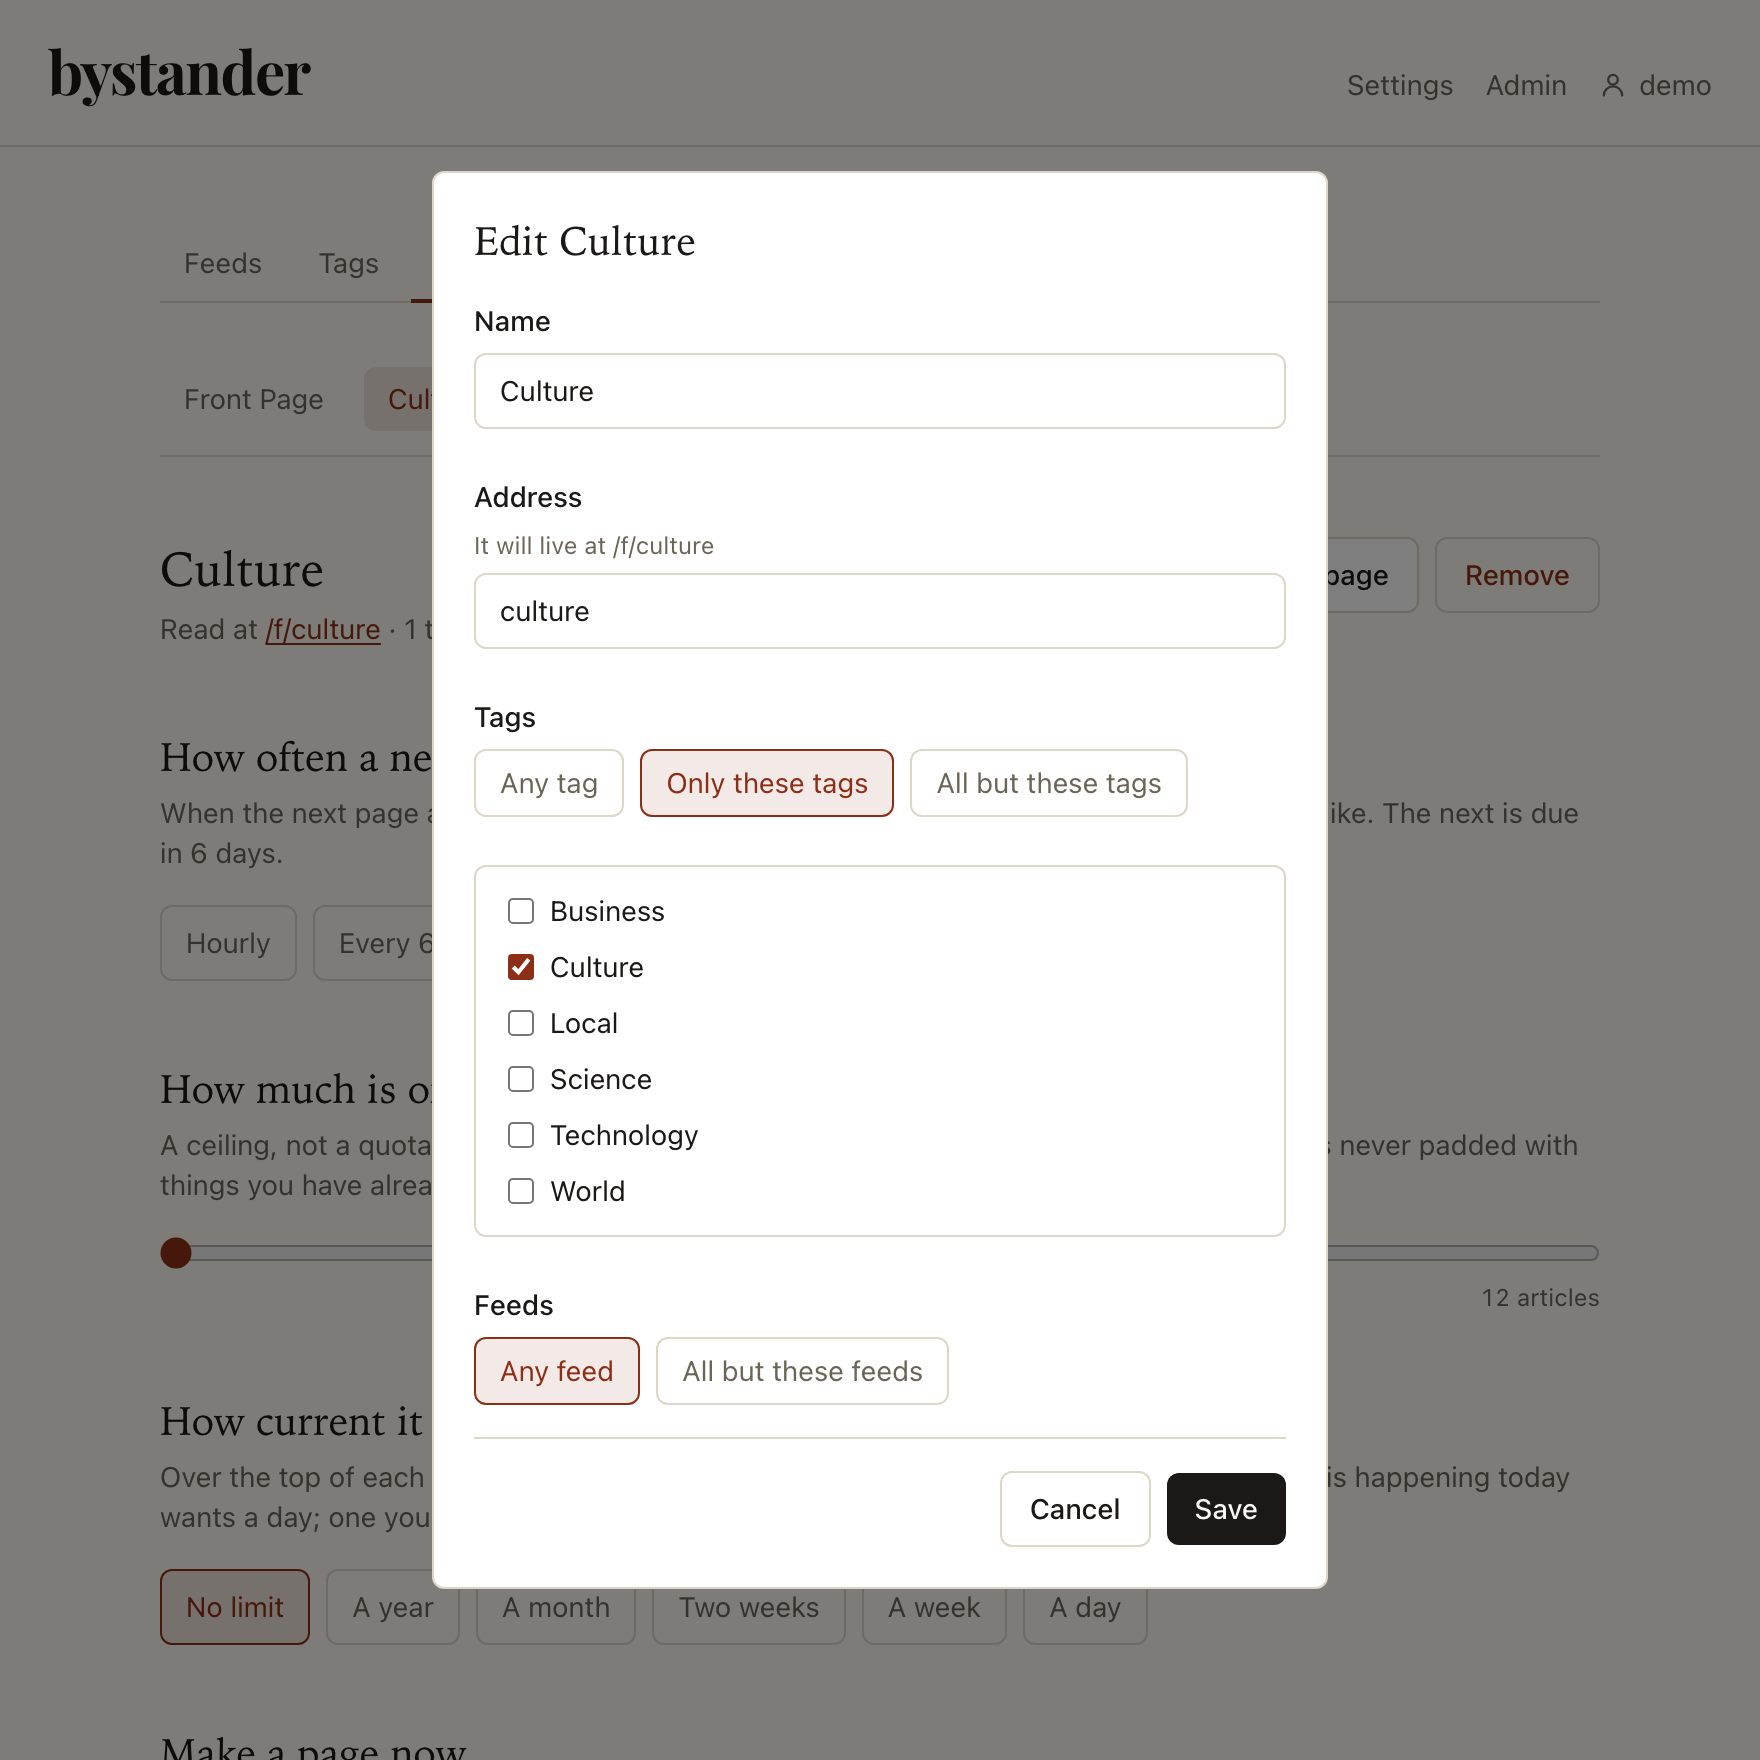
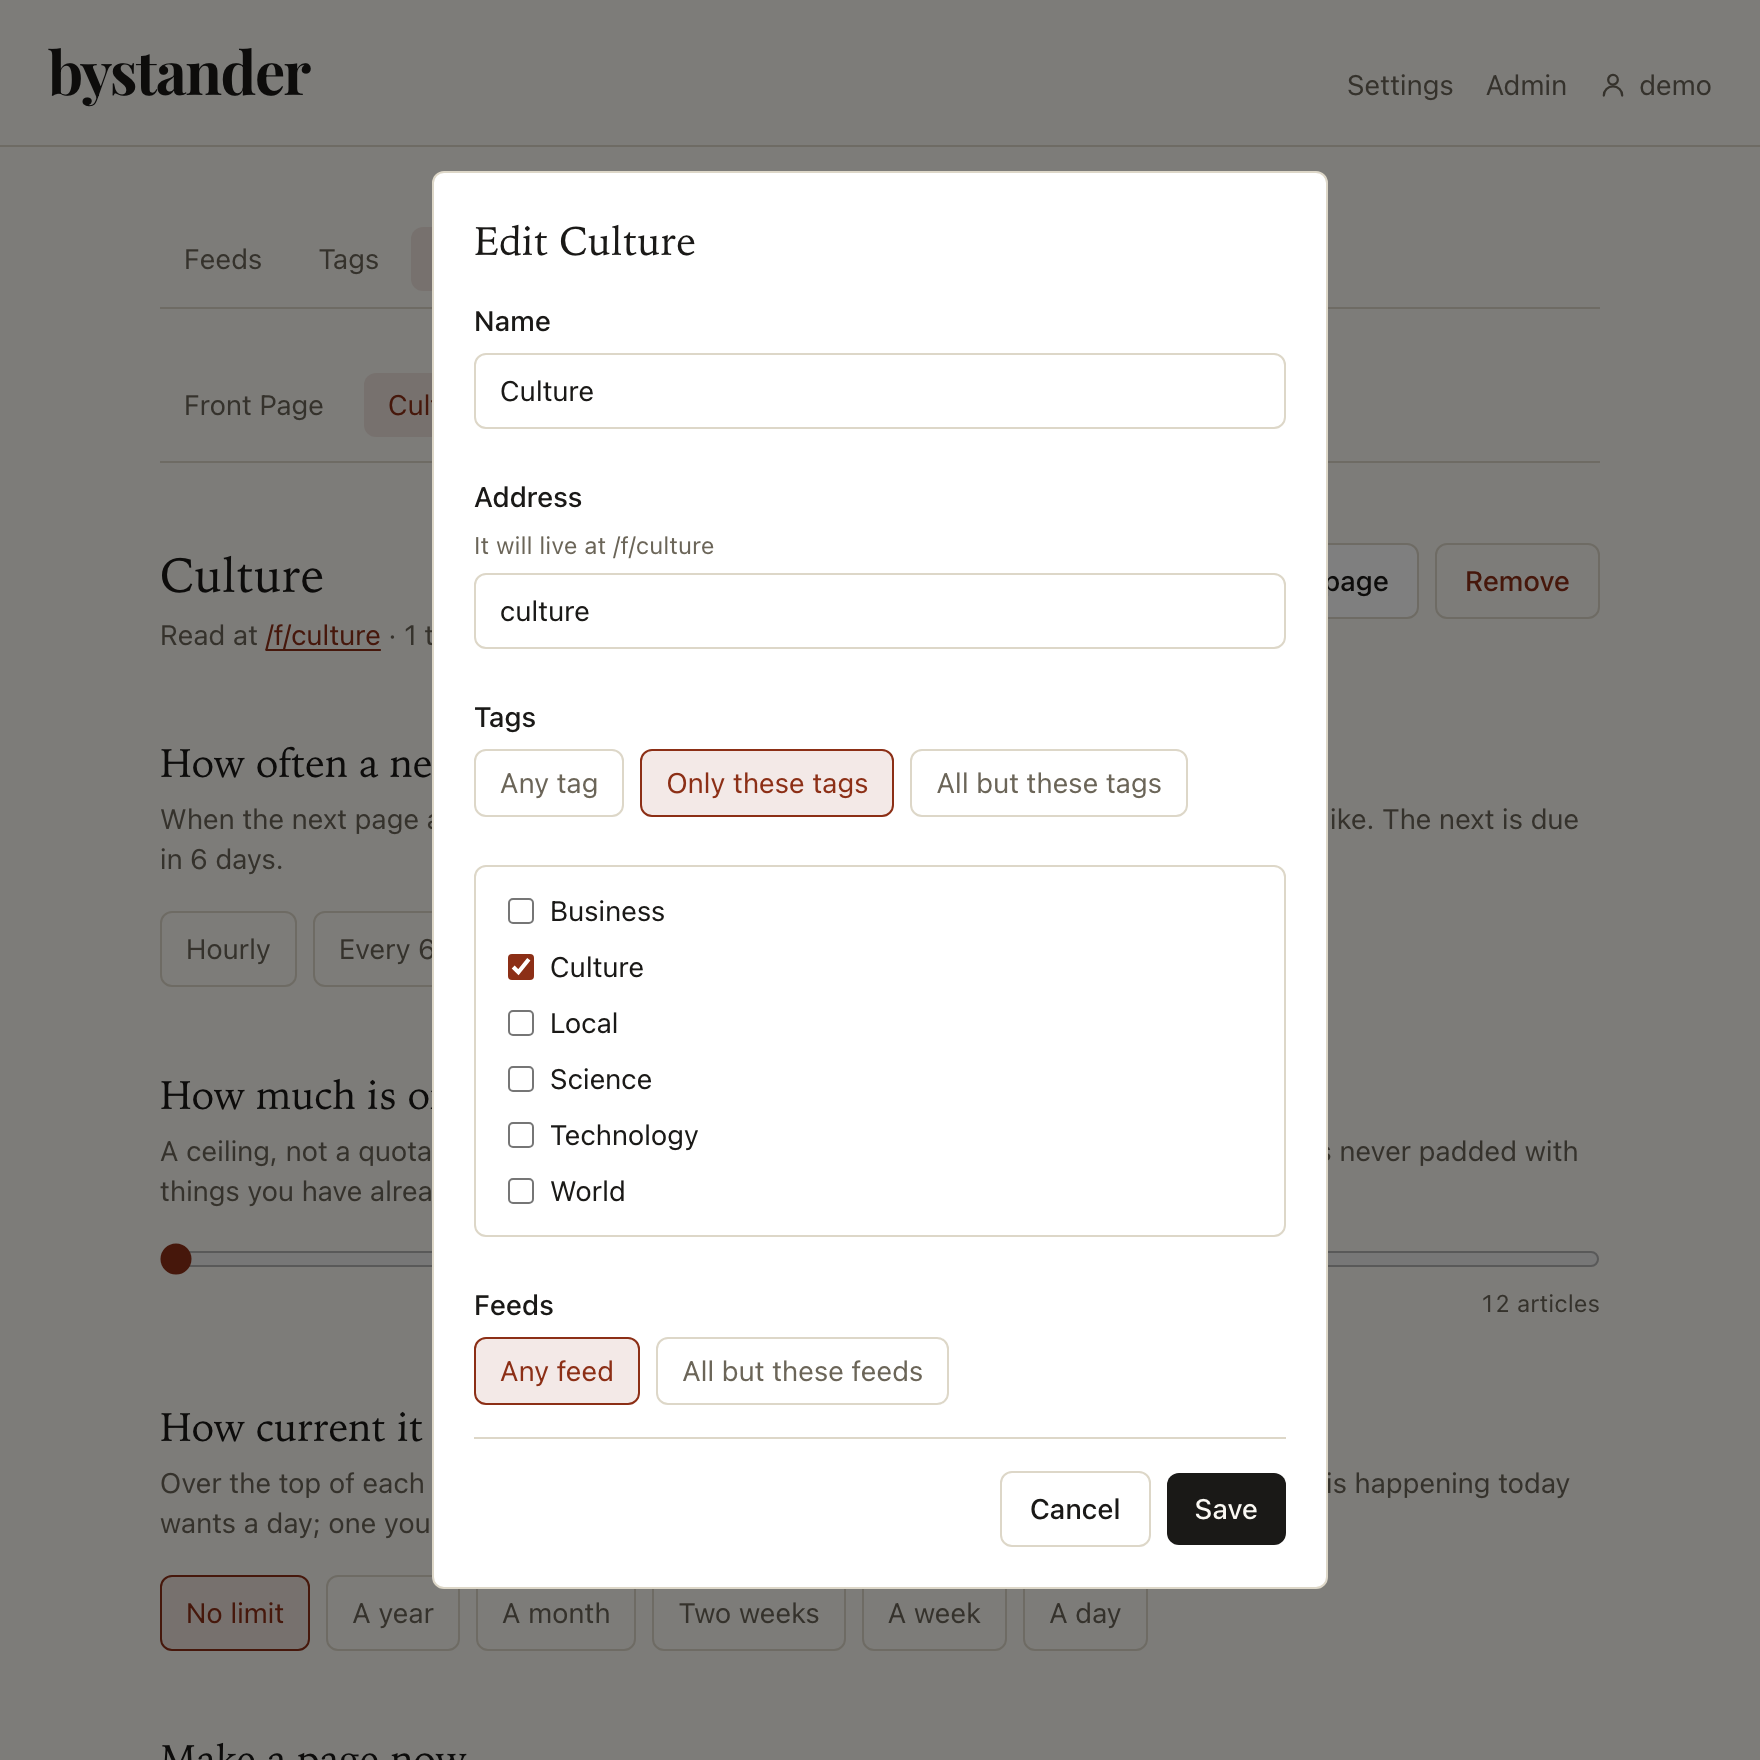
Scroll the section tabs, as pills, instead of wrapping them

diff --git a/web/src/components/ui/TabStrip.tsx b/web/src/components/ui/TabStrip.tsx
@@ -1,0 +1,90 @@
+import { useEffect, useRef, useState } from "react";
+import { NavLink, useLocation } from "react-router";
+
+export interface Tab {
+  to: string;
+  label: string;
+  /** Whether the path has to match exactly — for the tab that owns the section's root. */
+  end?: boolean;
+}
+
+/**
+ * The row of tabs under the masthead, in the islands that have sections.
+ *
+ * It scrolls sideways rather than wrapping. Wrapping was tried and is the safer-sounding of
+ * the two — nothing can be out of sight — but five tabs on a phone became two rows, and a
+ * two-row strip reads as two groups of things rather than one row of them.
+ *
+ * Scrolling has one real cost, and it is worth naming because it is the reason wrapping was
+ * tried first: a tab off the end of the strip is a tab somebody may not know is there, and on
+ * this nav that tab is Account, which is the way to sign out. Two things pay for it, and both
+ * are below: the strip fades at the edge when there is more of it, so it looks cut off rather
+ * than finished, and the tab you are on is scrolled into view, so the strip never opens
+ * showing you somewhere you are not.
+ */
+export function TabStrip({ tabs }: { tabs: Tab[] }) {
+  const strip = useRef<HTMLElement>(null);
+  const [overflowing, setOverflowing] = useState(false);
+  const { pathname } = useLocation();
+
+  useEffect(() => {
+    const node = strip.current;
+    if (!node) return;
+
+    const measure = () =>
+      setOverflowing(node.scrollWidth > node.clientWidth + 1);
+    measure();
+
+    // The tab somebody is on, brought into the strip. `nearest` so a strip that already shows
+    // it is left alone — scrolling a visible thing into view moves the page under a reader for
+    // no reason.
+    node
+      .querySelector<HTMLElement>('[aria-current="page"]')
+      ?.scrollIntoView({ inline: "nearest", block: "nearest" });
+
+    // Guarded: jsdom has no ResizeObserver, and a test rendering a section should see the
+    // section rather than a crash. What a test loses is the response to a resize, and nothing
+    // resizes in jsdom.
+    if (typeof ResizeObserver === "undefined") return;
+    const observer = new ResizeObserver(measure);
+    observer.observe(node);
+    return () => observer.disconnect();
+  }, [pathname, tabs.length]);
+
+  return (
+    // The rule belongs to the wrapper rather than to the strip, so it runs the full width and
+    // the fade below cannot eat its end. The strip scrolls inside it.
+    <div className="mb-8 border-b border-rule pb-2">
+      <nav
+        ref={strip}
+        className={`tab-strip flex gap-1 overflow-x-auto ${
+          overflowing ? "tab-strip-more" : ""
+        }`}
+      >
+        {tabs.map((tab) => (
+          <NavLink
+            key={tab.to}
+            to={tab.to}
+            end={tab.end}
+            className={({ isActive }) =>
+              // A tinted pill rather than an underline, and the same one the front pages use
+              // for their own strip — two strips that do the same thing should not be two
+              // different objects.
+              //
+              // `shrink-0` and `whitespace-nowrap` are both load-bearing on a strip that
+              // scrolls: without them a tab shrinks and folds its own label — "Front / pages"
+              // — rather than letting the strip run past the edge.
+              `shrink-0 rounded-md px-3 py-1.5 text-sm whitespace-nowrap ${
+                isActive
+                  ? "bg-accent/10 text-accent"
+                  : "text-ink-muted hover:text-ink"
+              }`
+            }
+          >
+            {tab.label}
+          </NavLink>
+        ))}
+      </nav>
+    </div>
+  );
+}

diff --git a/web/src/apps/admin/App.tsx b/web/src/apps/admin/App.tsx
@@ -1,9 +1,10 @@
-import { BrowserRouter, NavLink, Navigate, Route, Routes } from "react-router";
+import { BrowserRouter, Navigate, Route, Routes } from "react-router";
 
 import { Boundary } from "@app/components/Boundary";
 import { Masthead } from "@app/components/Masthead";
 import { RequireSession } from "@app/components/RequireSession";
 import { Alert } from "@app/components/ui/Alert";
+import { TabStrip } from "@app/components/ui/TabStrip";
 
 import { InvitesPage } from "@app/apps/admin/InvitesPage";
 import { MailPage } from "@app/apps/admin/MailPage";
@@ -23,34 +24,13 @@ export function App() {
                 <Alert>That is an administrator's to do.</Alert>
               ) : (
                 <BrowserRouter>
-                  {/* Wraps, like the manage island's — three shorter labels fit today, and
-                      the first translation of "Invitations" is the one that would not. */}
-                  <nav className="mb-8 flex flex-wrap gap-x-1 gap-y-0.5 border-b border-rule">
-                    {[
+                  <TabStrip
+                    tabs={[
                       { to: "/admin", label: "People", end: true },
-                      {
-                        to: "/admin/invites",
-                        label: "Invitations",
-                        end: false,
-                      },
-                      { to: "/admin/mail", label: "Mail", end: false },
-                    ].map((tab) => (
-                      <NavLink
-                        key={tab.to}
-                        to={tab.to}
-                        end={tab.end}
-                        className={({ isActive }) =>
-                          `-mb-px border-b-2 px-2 py-2 text-sm whitespace-nowrap sm:px-3 ${
-                            isActive
-                              ? "border-accent text-ink"
-                              : "border-transparent text-ink-muted hover:text-ink"
-                          }`
-                        }
-                      >
-                        {tab.label}
-                      </NavLink>
-                    ))}
-                  </nav>
+                      { to: "/admin/invites", label: "Invitations" },
+                      { to: "/admin/mail", label: "Mail" },
+                    ]}
+                  />
                   <Routes>
                     <Route path="/admin" element={<UsersPage me={me} />} />
                     <Route path="/admin/invites" element={<InvitesPage />} />

diff --git a/web/src/apps/manage/Layout.tsx b/web/src/apps/manage/Layout.tsx
@@ -1,10 +1,10 @@
 import type { ReactNode } from "react";
-import { NavLink } from "react-router";
 
 import type { Me } from "@app/api/types";
 import { Masthead } from "@app/components/Masthead";
+import { TabStrip, type Tab } from "@app/components/ui/TabStrip";
 
-const tabs = [
+const tabs: Tab[] = [
   { to: "/manage", label: "Feeds", end: true },
   { to: "/manage/tags", label: "Tags", end: false },
   { to: "/manage/pages", label: "Front pages", end: false },
@@ -19,33 +19,7 @@ export function Layout({ me, children }: { me: Me; children: ReactNode }) {
           that said it twice would be a band saying it twice. */}
       <Masthead me={me} />
       <main className="mx-auto max-w-3xl px-6 py-10">
-        {/* Wraps rather than scrolls.
-         *
-         * Five tabs do not fit across a phone: the row overflowed, "Account" was cut off at
-         * the edge, and the labels that survived broke mid-name — "Front / pages". A
-         * horizontally scrolling strip is the other convention and is wrong here, because the
-         * tab it would hide is the one that leads to signing out.
-         *
-         * `whitespace-nowrap` is what stops the mid-name break: without it a tab shrinks by
-         * folding its own label before the row ever wraps. */}
-        <nav className="mb-8 flex flex-wrap gap-x-1 gap-y-0.5 border-b border-rule">
-          {tabs.map((tab) => (
-            <NavLink
-              key={tab.to}
-              to={tab.to}
-              end={tab.end}
-              className={({ isActive }) =>
-                `-mb-px border-b-2 px-2 py-2 text-sm whitespace-nowrap sm:px-3 ${
-                  isActive
-                    ? "border-accent text-ink"
-                    : "border-transparent text-ink-muted hover:text-ink"
-                }`
-              }
-            >
-              {tab.label}
-            </NavLink>
-          ))}
-        </nav>
+        <TabStrip tabs={tabs} />
         {children}
       </main>
     </>

diff --git a/web/src/styles.css b/web/src/styles.css
@@ -264,6 +264,45 @@ body {
     margin-bottom: 2.75rem;
   }
 
+  /*
+   * The section tabs, which scroll sideways when they do not fit.
+   *
+   * The scrollbar is hidden because a persistent one under a row of tabs is a horizontal bar
+   * across the page that is not a rule and is not a tab. What replaces it as the affordance is
+   * the fade below, which only appears when there is in fact more strip.
+   */
+  .tab-strip {
+    scrollbar-width: none;
+  }
+  .tab-strip::-webkit-scrollbar {
+    display: none;
+  }
+
+  /*
+   * A strip with more in it looks cut off rather than finished.
+   *
+   * Applied only when the content overflows — a fade on a strip that fits would say there is
+   * more when there is not, which is worse than saying nothing. The class is set from
+   * TabStrip, which measures.
+   *
+   * Logical, not physical: it fades whichever edge the reading runs towards, so a
+   * right-to-left page fades on the left.
+   */
+  .tab-strip-more {
+    mask-image: linear-gradient(
+      to right,
+      black calc(100% - 2rem),
+      transparent 100%
+    );
+  }
+  [dir="rtl"] .tab-strip-more {
+    mask-image: linear-gradient(
+      to left,
+      black calc(100% - 2rem),
+      transparent 100%
+    );
+  }
+
   .page-rule {
     grid-column: span 16;
     border-top: 1px solid var(--rule);
